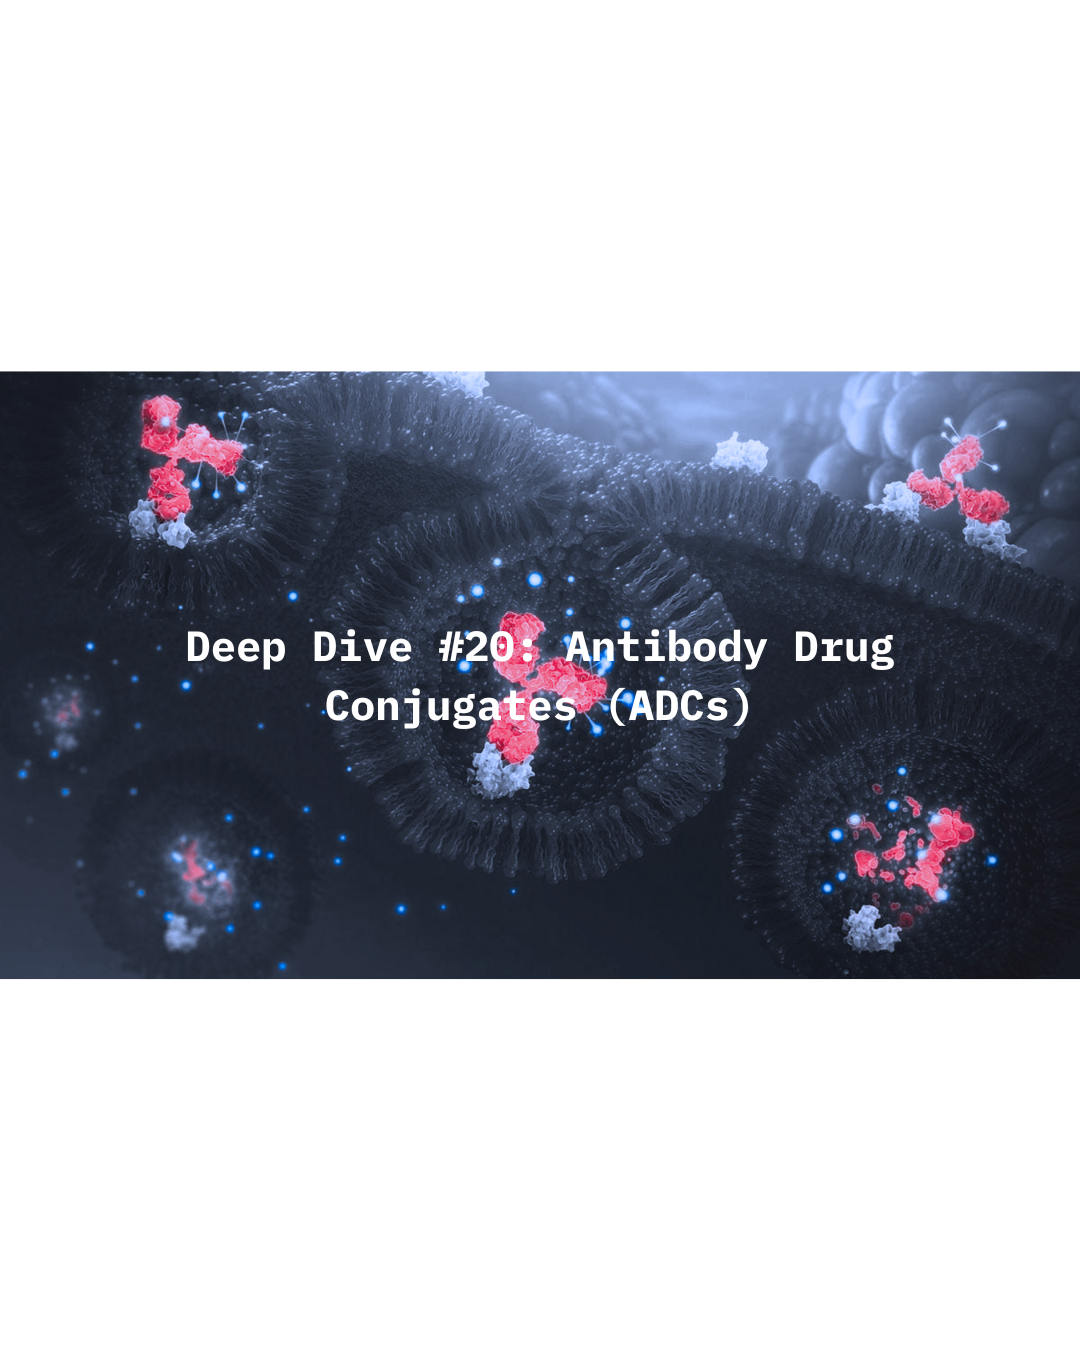
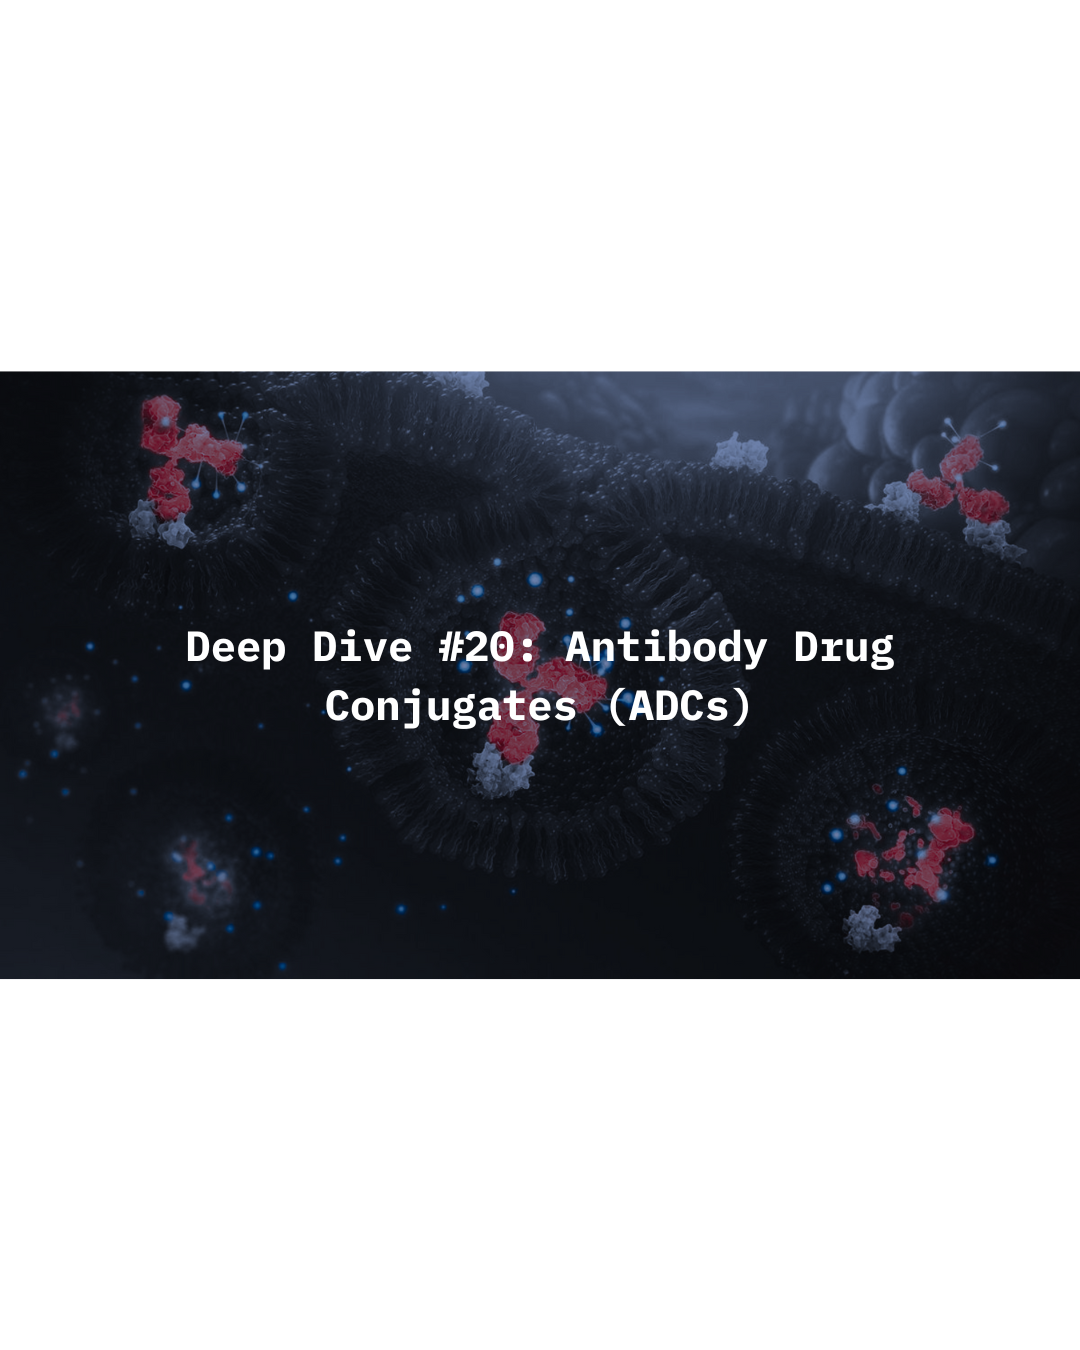
Update stylesheet version and modify background image: incremented the version in index.html for cache management and replaced background_image_4.png with a new version.

diff --git a/index.html b/index.html
@@ -4,7 +4,7 @@
     <meta charset="UTF-8">
     <meta name="viewport" content="width=device-width, initial-scale=1.0">
     <title>Alix Ventures</title>
-    <link rel="stylesheet" href="styles.css?v=30">
+    <link rel="stylesheet" href="styles.css?v=31">
     <link rel="preconnect" href="https://fonts.googleapis.com">
     <link rel="preconnect" href="https://fonts.gstatic.com" crossorigin>
     <!-- Instrument Serif -->
